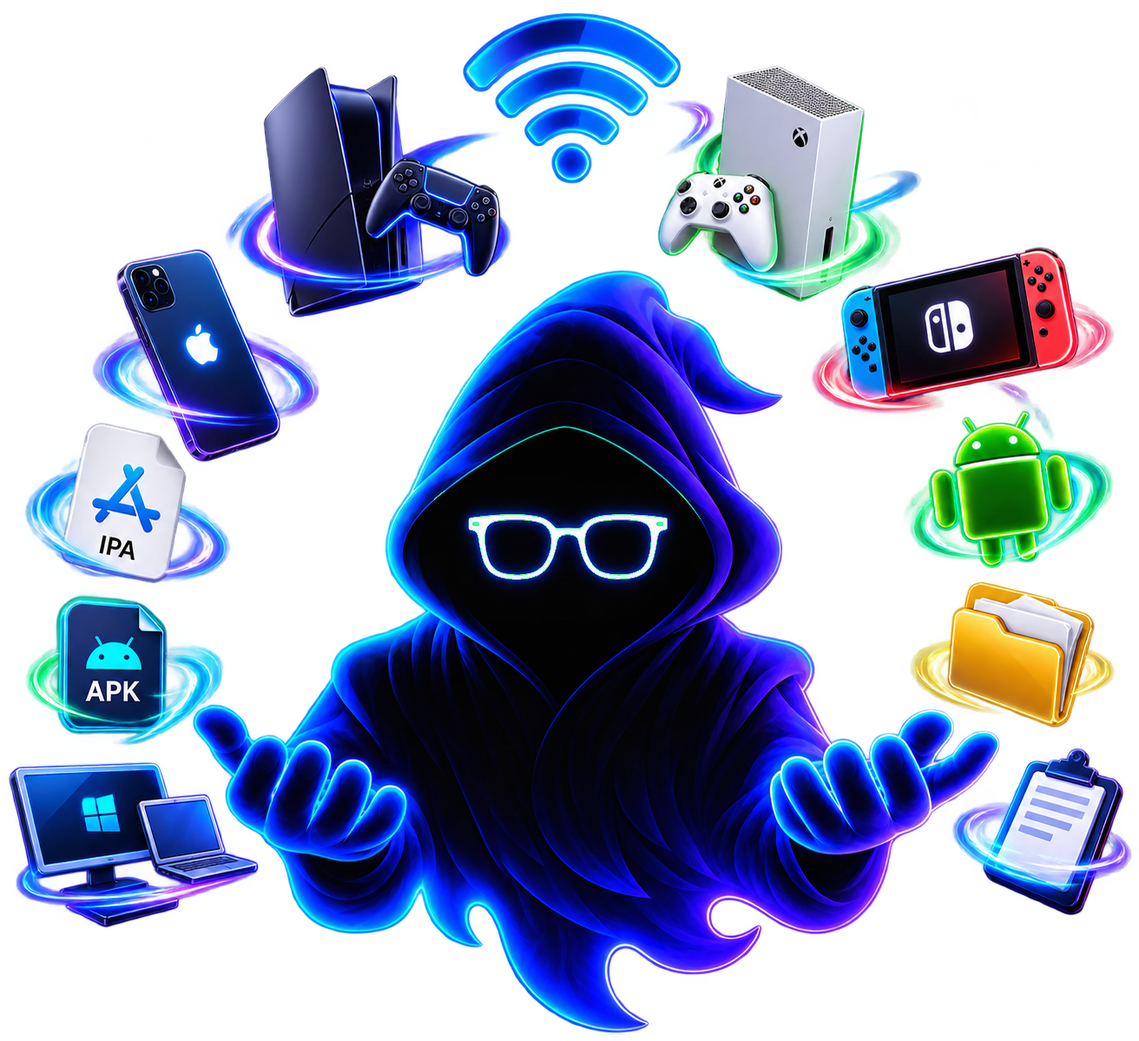
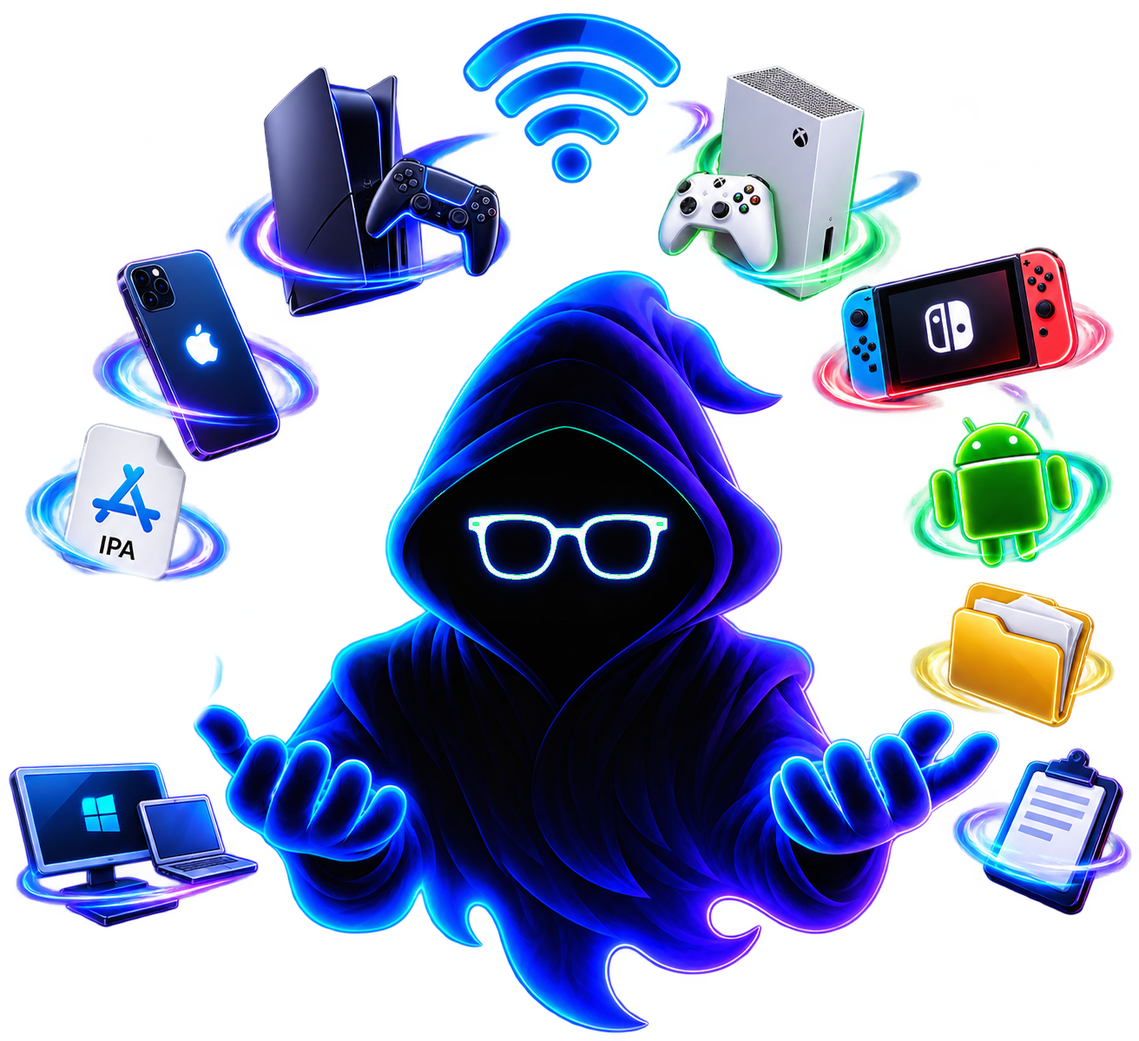
fix: restore iNSync device UI and widget behavior

Changed region(s): [[0.0, 0.5246, 0.2188, 0.7406]]

diff --git a/app/electron/renderer/index.html b/app/electron/renderer/index.html
@@ -23,15 +23,20 @@ button,select,input{font:inherit}
 #minBtn{left:28.5%;padding-bottom:6px}#closeBtn{right:28.5%;color:#ffdbe4;border-color:rgba(255,92,124,.22);background:linear-gradient(180deg,rgba(56,14,29,.72),rgba(29,7,15,.58))}
 /* standalone glass modal language */.backdrop{position:fixed;inset:0;display:none;align-items:center;justify-content:center;background:rgba(0,0,0,.72);backdrop-filter:blur(12px);z-index:100;padding:18px}.backdrop.open{display:flex}.modal{width:min(880px,92vw);height:min(560px,76vh);overflow:hidden;border-radius:28px;background:linear-gradient(180deg,rgba(18,27,49,.55),rgba(5,10,22,.5));border:1px solid rgba(90,190,255,.22);box-shadow:0 24px 80px rgba(0,0,0,.55),inset 0 0 0 1px rgba(255,255,255,.03);padding:16px;backdrop-filter:blur(24px);display:grid;grid-template-rows:auto minmax(0,1fr)}.modal.maximized{width:min(1180px,96vw);height:min(860px,92vh);padding:18px}.modal-head{display:flex;align-items:center;justify-content:space-between;gap:14px;padding-bottom:12px;border-bottom:1px solid rgba(86,185,255,.12)}.modal-title{display:flex;align-items:center;gap:14px;min-width:0}.modal-title img{width:64px;height:64px;object-fit:contain;filter:drop-shadow(0 0 15px rgba(49,183,255,.3))}.modal.maximized .modal-title img{width:76px;height:76px}.modal-title h2{margin:0;font-size:22px}.modal.maximized .modal-title h2{font-size:26px}.modal-title p{margin:3px 0 0;color:var(--muted);font-size:11px;line-height:1.45}.modal.maximized .modal-title p{font-size:13px}.modal-actions{display:flex;align-items:center;gap:8px}.modal-btn{width:40px;height:40px;border-radius:14px;border:1px solid rgba(80,180,255,.18);background:rgba(255,255,255,.04);color:white;font-size:21px;cursor:pointer;display:grid;place-items:center;backdrop-filter:blur(12px)}.modal-btn:hover{box-shadow:0 0 18px rgba(88,187,255,.18);transform:translateY(-1px)}.modal-btn.max{font-size:17px}.modal-btn.close{color:#ffdbe4;border-color:rgba(255,100,140,.22);background:rgba(80,18,36,.28)}.modal-body{display:grid;grid-template-columns:1.2fr .8fr;gap:12px;padding-top:12px;min-height:0;overflow:hidden;align-items:stretch}.modal.maximized .modal-body{grid-template-columns:1.25fr .75fr;gap:14px}.modal-body > *{min-height:0}.card{border:1px solid rgba(83,180,255,.13);background:linear-gradient(180deg,rgba(26,36,62,.42),rgba(9,14,28,.34));border-radius:20px;padding:12px;backdrop-filter:blur(18px);overflow:hidden}.card h3,.card h4{margin:0 0 8px}.card p{margin:0;color:var(--muted);font-size:11px;line-height:1.45}.modal.maximized .card p{font-size:12.5px;line-height:1.55}.rows{display:grid;gap:8px;margin-top:10px}.row{display:flex;align-items:center;justify-content:space-between;gap:10px;padding:9px 10px;border-radius:15px;background:rgba(255,255,255,.03);border:1px solid rgba(91,180,255,.09)}.row b{font-size:11.5px}.modal.maximized .row b{font-size:12.5px}.row small{display:block;color:var(--muted);margin-top:2px}.tag{padding:5px 8px;border-radius:999px;font-size:9.5px;border:1px solid rgba(80,190,255,.18);color:#d8f5ff;background:rgba(51,163,255,.08)}.tag.green{color:#baffd3;border-color:rgba(57,255,145,.25);background:rgba(57,255,145,.08)}.tag.red{color:#ffd3dc;border-color:rgba(255,62,105,.25);background:rgba(255,62,105,.08)}.grid2{display:grid;grid-template-columns:repeat(2,minmax(0,1fr));gap:9px}.action{display:flex;align-items:center;gap:10px;padding:10px;border:1px solid rgba(86,177,255,.11);background:rgba(255,255,255,.03);border-radius:16px;backdrop-filter:blur(16px)}.action img{width:40px;height:40px;object-fit:contain}.modal.maximized .action img{width:48px;height:48px}.action b{display:block;font-size:11.5px}.modal.maximized .action b{font-size:12.5px}.action span{display:block;color:var(--muted);font-size:10.5px;margin-top:2px;line-height:1.35}.modal.maximized .action span{font-size:11.5px}.control{margin-top:10px}.control label{display:block;font-size:9.5px;text-transform:uppercase;letter-spacing:.12em;color:#a5c4e1;margin-bottom:5px}.control select,.control input[type=text],.control input[type=file]{width:100%;padding:9px 10px;border-radius:12px;border:1px solid rgba(88,180,255,.15);background:rgba(8,14,28,.72);color:white}.primary,.secondary{border:0;border-radius:13px;padding:9px 12px;font-weight:700;cursor:pointer}.primary{background:linear-gradient(90deg,#23dfff,#5667ff);color:#00101b}.secondary{background:rgba(255,255,255,.06);color:#e7f7ff;border:1px solid rgba(92,180,255,.15)}.buttonbar{display:flex;gap:8px;flex-wrap:wrap;margin-top:10px}.toggle{width:58px;height:30px;border-radius:999px;background:rgba(255,62,105,.3);border:1px solid rgba(255,62,105,.3);position:relative;cursor:pointer}.toggle i{position:absolute;top:3px;left:3px;width:22px;height:22px;border-radius:50%;background:white;transition:.18s}.toggle.on{background:rgba(57,255,145,.28);border-color:rgba(57,255,145,.32)}.toggle.on i{left:31px}.progress{height:8px;border-radius:999px;background:rgba(255,255,255,.06);overflow:hidden;margin-top:7px}.progress i{display:block;height:100%;background:linear-gradient(90deg,#20e6ff,#4e67ff,#a751ff);border-radius:999px}.checklist{display:grid;gap:8px;margin-top:10px}.check{display:flex;align-items:center;gap:8px;color:#dff7ff;font-size:12px}.check input{accent-color:#33dfff}.app-list{display:grid;gap:8px;margin-top:10px}.app-row{display:grid;grid-template-columns:1fr auto;gap:10px;padding:10px;border-radius:15px;border:1px solid rgba(88,180,255,.1);background:rgba(255,255,255,.025)}.app-row b{font-size:12px}.app-row span{display:block;font-size:10px;color:var(--muted);margin-top:2px}.danger{border:1px solid rgba(255,62,105,.25);background:rgba(255,62,105,.08);color:#ffd6df;border-radius:10px;padding:6px 8px;font-size:10px;cursor:pointer}.mini-explorer{display:grid;grid-template-columns:1fr 1fr;gap:10px}.pane{min-height:180px;border-radius:16px;border:1px solid rgba(80,180,255,.12);background:rgba(0,0,0,.18);padding:10px}.pane h4{font-size:11px;color:#c8eaff;margin:0 0 8px}.file{padding:7px 8px;border-radius:10px;color:#cfe4f7;font-size:11px}.file:hover{background:rgba(45,159,255,.08)}
 
-.module-art,.mini-art{flex:0 0 auto;background-image:url("assets/insync-ui-disconnected.png");background-repeat:no-repeat;background-size:500% auto;background-color:rgba(12,20,38,.35);border:1px solid rgba(82,183,255,.13);box-shadow:inset 0 0 18px rgba(41,151,255,.07)}
-.module-art{width:58px;height:58px;border-radius:17px}.mini-art{width:42px;height:42px;border-radius:13px}
-.icon-sharing{background-position:50% 2%}.icon-playstation{background-position:25% 10%}.icon-xbox{background-position:73% 10%}.icon-switch{background-position:92% 31%}.icon-iphone{background-position:5% 32%}.icon-ipa{background-position:2% 49%}.icon-android{background-position:97% 50%}.icon-apk{background-position:2% 66%}.icon-files{background-position:97% 66%}.icon-clipboard{background-position:98% 84%}.icon-pc{background-position:1% 86%}.icon-home{background-position:50% 52%}
+.module-art,.mini-art{flex:0 0 auto;background-repeat:no-repeat;background-position:center;background-size:contain;background-color:transparent;border:0;box-shadow:none}
+.module-art{width:58px;height:58px}.mini-art{width:42px;height:42px}
+.icon-sharing{background-image:url("assets/icons/sharing.png")}.icon-playstation{background-image:url("assets/icons/playstation.png")}.icon-xbox{background-image:url("assets/icons/xbox.png")}.icon-switch{background-image:url("assets/icons/switch.png")}.icon-iphone{background-image:url("assets/icons/iphone.png")}.icon-ipa{background-image:url("assets/icons/ipa.png")}.icon-android{background-image:url("assets/icons/android.png")}.icon-files{background-image:url("assets/icons/files.png")}.icon-clipboard{background-image:url("assets/icons/clipboard.png")}.icon-pc{background-image:url("assets/icons/pc.png")}.icon-home{background-image:url("assets/icons/home.png")}
 .modal{grid-template-rows:auto minmax(0,1fr) auto}.modal-title .module-art{filter:drop-shadow(0 0 15px rgba(49,183,255,.3))}
 .jobdock{display:none;align-items:center;grid-template-columns:minmax(0,1fr) auto;gap:9px;padding:8px 10px;border-radius:14px;border:1px solid rgba(89,190,255,.12);background:rgba(8,16,30,.62)}.jobdock.show{display:grid}.jobmeta{min-width:0}.jobline{display:flex;align-items:center;justify-content:space-between;gap:8px;font-size:9px;color:#d9edff}.jobline span:first-child{white-space:nowrap;overflow:hidden;text-overflow:ellipsis}.cancel{padding:6px 9px;border-radius:9px;border:1px solid rgba(255,93,123,.18);background:rgba(255,93,123,.08);color:#ffd7df;font-size:9px;cursor:pointer}
 .tag.blue{color:#c9efff;border-color:rgba(89,204,255,.25);background:rgba(89,204,255,.08)}.empty-state{padding:14px;border-radius:14px;border:1px dashed rgba(88,180,255,.14);background:rgba(0,0,0,.12);color:#9db4d2;font-size:11px;text-align:center}.share-path{margin-top:9px;padding:8px 10px;border-radius:12px;border:1px dashed rgba(88,180,255,.16);background:rgba(0,0,0,.16);color:#cfe4f7;font-size:10px;white-space:nowrap;overflow:hidden;text-overflow:ellipsis}.muted-file{color:#7f9ab7}.queue-card{padding:11px;border-radius:15px;border:1px solid rgba(88,180,255,.1);background:rgba(255,255,255,.025)}.queue-head{display:flex;justify-content:space-between;gap:10px;align-items:center}.queue-head b{font-size:12px}.queue-head small{display:block;color:#9db4d2;margin-top:3px;font-size:10px}.queue-pct{text-align:right;margin-top:5px;font-size:9px;color:#a9c9e8}.pager{display:flex;align-items:center;justify-content:flex-end;gap:7px;margin-top:8px;font-size:9px;color:#a9c9e8}.pager button{padding:5px 8px}
 
 #toast{position:fixed;left:50%;bottom:12px;z-index:80;transform:translate(-50%,16px);opacity:0;padding:7px 10px;border-radius:999px;background:rgba(9,17,31,.9);border:1px solid rgba(82,189,255,.2);color:#e9f8ff;font-size:9px;transition:.16s;-webkit-app-region:no-drag}#toast.show{opacity:1;transform:translate(-50%,0)}
-.peer-actions{display:flex;align-items:center;gap:7px;flex:0 0 auto}.peer-btn{padding:5px 7px;font-size:9px;border-radius:9px}.sectiontabs{display:grid;grid-template-columns:repeat(4,minmax(0,1fr));gap:6px;margin-bottom:10px}.sectiontab{border:1px solid rgba(88,180,255,.12);background:rgba(255,255,255,.035);color:#bcd5ec;border-radius:10px;padding:7px 5px;font-size:9px;font-weight:700;cursor:pointer}.sectiontab.active{color:#00101b;background:linear-gradient(90deg,#23dfff,#5667ff)}.media-list{display:grid;gap:7px}.media-row{display:grid;grid-template-columns:minmax(0,1fr) auto;gap:8px;align-items:center;padding:8px 9px;border-radius:13px;border:1px solid rgba(88,180,255,.1);background:rgba(255,255,255,.025)}.media-row b{display:block;font-size:11px;white-space:nowrap;overflow:hidden;text-overflow:ellipsis}.media-row span{display:block;color:var(--muted);font-size:9px;white-space:nowrap;overflow:hidden;text-overflow:ellipsis;max-width:300px}.media-actions{display:flex;gap:5px}.mini{padding:5px 7px!important;font-size:9px!important;border-radius:9px!important}</style>
+.peer-actions{display:flex;align-items:center;gap:7px;flex:0 0 auto}.peer-btn{padding:5px 7px;font-size:9px;border-radius:9px}.sectiontabs{display:grid;grid-template-columns:repeat(4,minmax(0,1fr));gap:6px;margin-bottom:10px}.sectiontab{border:1px solid rgba(88,180,255,.12);background:rgba(255,255,255,.035);color:#bcd5ec;border-radius:10px;padding:7px 5px;font-size:9px;font-weight:700;cursor:pointer}.sectiontab.active{color:#00101b;background:linear-gradient(90deg,#23dfff,#5667ff)}.media-list{display:grid;gap:7px}.media-row{display:grid;grid-template-columns:minmax(0,1fr) auto;gap:8px;align-items:center;padding:8px 9px;border-radius:13px;border:1px solid rgba(88,180,255,.1);background:rgba(255,255,255,.025)}.media-row b{display:block;font-size:11px;white-space:nowrap;overflow:hidden;text-overflow:ellipsis}.media-row span{display:block;color:var(--muted);font-size:9px;white-space:nowrap;overflow:hidden;text-overflow:ellipsis;max-width:300px}.media-actions{display:flex;gap:5px}.mini{padding:5px 7px!important;font-size:9px!important;border-radius:9px!important}.modal-window-btn{width:50px;height:50px;border-radius:16px;border:1px solid rgba(65,126,184,.34);background:rgba(15,25,43,.94);color:#f4f7fb;display:grid;place-items:center;cursor:pointer;font-size:23px;line-height:1;backdrop-filter:blur(16px);box-shadow:none;padding:0}.modal-window-btn.close{border-color:rgba(183,53,104,.42);background:rgba(46,18,34,.94);color:#ffdbe5}.modal-window-btn:hover{filter:brightness(1.08)}.maximize-glyph{display:block;width:14px;height:14px;border:2px solid #f4f7fb;border-radius:3px}
+.viewbar{display:flex;justify-content:flex-end;gap:6px;margin:-2px 0 8px}.view-btn{height:29px;padding:0 9px;border-radius:9px;border:1px solid rgba(88,180,255,.13);background:rgba(255,255,255,.035);color:#bdd3e9;font-size:9px;font-weight:700;cursor:pointer;display:flex;align-items:center;gap:6px}.view-btn.active{color:#eefaff;background:rgba(56,150,255,.13);border-color:rgba(85,195,255,.26)}
+.view-list-icon,.view-large-icon{display:inline-block;width:14px;height:14px;position:relative}.view-list-icon:before{content:"";position:absolute;inset:2px 0;background:linear-gradient(#dcefff 0 2px,transparent 2px 5px,#dcefff 5px 7px,transparent 7px 10px,#dcefff 10px 12px)}.view-large-icon{border:1px solid rgba(220,239,255,.82);border-radius:2px}.view-large-icon:before,.view-large-icon:after{content:"";position:absolute;background:rgba(220,239,255,.82)}.view-large-icon:before{left:6px;top:0;bottom:0;width:1px}.view-large-icon:after{top:6px;left:0;right:0;height:1px}
+.app-list,.media-list{overflow-y:auto;overscroll-behavior:contain;scrollbar-width:none;-ms-overflow-style:none}.app-list::-webkit-scrollbar,.media-list::-webkit-scrollbar{display:none;width:0;height:0}.app-list{max-height:315px;padding-right:2px}.modal.maximized .app-list{max-height:555px}.media-list{max-height:330px;padding-right:2px}.modal.maximized .media-list{max-height:590px}
+.media-list.large{grid-template-columns:repeat(auto-fill,minmax(145px,1fr));align-content:start}.media-list.large .media-row{grid-template-columns:1fr;min-height:132px;align-content:space-between;text-align:left}.media-list.large .media-row:before{content:"";width:42px;height:42px;border-radius:11px;border:1px solid rgba(82,183,255,.14);background:rgba(33,97,148,.12);box-shadow:inset 0 0 18px rgba(41,151,255,.06)}.media-list.large .media-row[data-kind="photos"]:before{background:linear-gradient(135deg,rgba(30,210,255,.2),rgba(87,95,255,.16))}.media-list.large .media-row[data-kind="music"]:before{background:linear-gradient(135deg,rgba(149,86,255,.19),rgba(41,199,255,.13))}.media-list.large .media-row[data-kind="documents"]:before{background:linear-gradient(135deg,rgba(255,202,65,.14),rgba(41,199,255,.1))}.media-list.large .media-actions{width:100%;display:grid;grid-template-columns:1fr 1fr}
+</style>
 </head>
 <body>
 <div id="stage">
@@ -56,7 +61,7 @@ button,select,input{font:inherit}
   <section id="modal" class="modal">
     <header class="modal-head">
       <div id="modalTitle" class="modal-title"></div>
-      <div class="modal-actions"><button id="maxModal" aria-label="Maximize">Max</button><button id="closeModal" class="x" aria-label="Close">&times;</button></div>
+      <div class="modal-actions"><button id="maxModal" class="modal-window-btn" aria-label="Maximize" title="Maximize"><span class="maximize-glyph"></span></button><button id="closeModal" class="modal-window-btn close" aria-label="Close" title="Close">&times;</button></div>
     </header>
     <div id="modalBody" class="modal-body"></div>
     <div id="jobDock" class="jobdock">
@@ -83,7 +88,7 @@ const data={
   clipboard:{peers:[],targets:[],types:{text:true,image:true,files:false},direction:"two-way"},
   android:{devices:[],serial:"",packagePaths:[],apps:[],page:0,info:null},
   ipa:{path:"",validation:null,status:null},
-  iphone:{status:null,section:"photos",media:{photos:[],music:[]},apps:[],documents:[],bundleId:"",page:0},
+  iphone:{status:null,section:"photos",view:"list",media:{photos:[],music:[]},apps:[],documents:[],bundleId:"",page:0},
   playstation:{paths:[],status:null},
   xbox:{paths:[],status:null},
   switch:{paths:[],status:null}
@@ -148,12 +153,10 @@ const modules={
     title:"Android",sub:"ADB connection, Android package installation and installed-app management.",icon:"android",
     render(){
       const d=data.android,info=d.info?.device||{},storage=d.info?.storage||{};
-      const perPage=4,maxPage=Math.max(0,Math.ceil(d.apps.length/perPage)-1);d.page=Math.min(d.page,maxPage);
-      const pageApps=d.apps.slice(d.page*perPage,d.page*perPage+perPage);
-      const appRows=pageApps.length?pageApps.map(app=>'<div class="app-row"><div><b>'+esc(app.package)+'</b><span>'+esc(app.kind||"app")+'</span></div><button class="danger" data-cmd="'+(app.action==="disable"?"appDisable":"appUninstall")+'" data-package="'+esc(app.package)+'">'+(app.action==="disable"?"Disable":"Uninstall")+'</button></div>').join(''):'<div class="empty-state">Refresh Apps to list packages.</div>';
+      const appRows=d.apps.length?d.apps.map(app=>'<div class="app-row"><div><b>'+esc(app.package)+'</b><span>'+esc(app.kind||"app")+'</span></div><button class="danger" data-cmd="appUninstall" data-package="'+esc(app.package)+'">Delete</button></div>').join(''):'<div class="empty-state">Refresh Apps to list packages.</div>';
       return [
-        '<div class="card"><div class="control"><label>ADB device</label><select id="adbDevice"><option value="">Auto / first device</option>'+optionList(d.devices,x=>x.serial,x=>x.serial+" | "+x.state,d.serial)+'</select></div><div class="share-path">'+esc(d.packagePaths.length?d.packagePaths.map(x=>x.split(/[\\/]/).pop()).join(" | "):"No Android package selected")+'</div><div class="buttonbar"><button class="secondary" data-cmd="apkBrowse">Choose package</button><button class="primary" data-cmd="apkInstall">Install</button><button class="secondary" data-cmd="adbRefresh">Refresh ADB</button></div><h3 style="margin-top:14px">Apps on device</h3><div class="app-list">'+appRows+'</div><div class="pager"><button class="secondary" data-cmd="appsPrev">&lt;</button><span>Page '+(d.page+1)+' / '+(maxPage+1)+'</span><button class="secondary" data-cmd="appsNext">&gt;</button><button class="secondary" data-cmd="appsRefresh">Refresh Apps</button></div></div>',
-        '<div class="card"><h3>Device</h3><div class="rows">'+row("ADB",d.devices.length?(d.serial||d.devices[0].serial):"No device",d.devices.length?"Ready":"Disconnected",d.devices.length?"green":"red")+row("Model",((info.manufacturer||"")+" "+(info.model||"")).trim()||"Refresh device",info.android?"Android "+info.android:"Unknown","")+row("Storage",storage.free!==undefined?fmtBytes(storage.free)+" free":"Refresh device",storage.total?fmtBytes(storage.total):"Unknown","")+row("Package install","APK / APKS / XAPK / split APK","Ready",d.devices.length?"green":"")+row("App safety","User apps uninstall; system apps disable-user","Guarded","green")+'</div></div>'
+        '<div class="card"><div class="control"><label>ADB device</label><select id="adbDevice"><option value="">Auto / first device</option>'+optionList(d.devices,x=>x.serial,x=>x.serial+" | "+x.state,d.serial)+'</select></div><div class="share-path">'+esc(d.packagePaths.length?d.packagePaths.map(x=>x.split(/[\\/]/).pop()).join(" | "):"No Android package selected")+'</div><div class="buttonbar"><button class="secondary" data-cmd="apkBrowse">Choose package</button><button class="primary" data-cmd="apkInstall">Install</button><button class="secondary" data-cmd="adbRefresh">Refresh ADB</button></div><h3 style="margin-top:14px">Apps on device</h3><div class="app-list">'+appRows+'</div><div class="buttonbar"><button class="secondary" data-cmd="appsRefresh">Refresh Apps</button></div></div>',
+        '<div class="card"><h3>Device</h3><div class="rows">'+row("ADB",d.devices.length?(d.serial||d.devices[0].serial):"No device",d.devices.length?"Ready":"Disconnected",d.devices.length?"green":"red")+row("Model",((info.manufacturer||"")+" "+(info.model||"")).trim()||"Refresh device",info.android?"Android "+info.android:"Unknown","")+row("Storage",storage.free!==undefined?fmtBytes(storage.free)+" free":"Refresh device",storage.total?fmtBytes(storage.total):"Unknown","")+row("Package install","APK / APKS / XAPK / split APK","Ready",d.devices.length?"green":"")+row("App removal","User and system packages use Android uninstall","Direct","green")+'</div></div>'
       ];
     }
   },
@@ -173,21 +176,22 @@ const modules={
       const d=data.iphone,status=d.status||{},device=status.device||{},storage=status.storage||{},section=d.section||"photos";
       const labels={photos:"Photos",music:"Music",apps:"Apps",documents:"App Documents"};
       const tabs=["photos","music","apps","documents"].map(x=>'<button class="sectiontab '+(section===x?"active":"")+'" data-cmd="iphoneSection" data-section="'+x+'">'+labels[x]+'</button>').join("");
+      const viewbar='<div class="viewbar"><button class="view-btn '+(d.view==="list"?"active":"")+'" data-cmd="iphoneView" data-view="list"><span class="view-list-icon"></span>List</button><button class="view-btn '+(d.view==="large"?"active":"")+'" data-cmd="iphoneView" data-view="large"><span class="view-large-icon"></span>Large</button></div>';
       let body="",actions="";
       if(section==="apps"){
-        body=d.apps.length?d.apps.slice(0,6).map(app=>'<div class="media-row"><div><b>'+esc(app.name||app.bundle_id)+'</b><span>'+esc(app.bundle_id)+(app.size?" | "+fmtBytes(app.size):"")+'</span></div><div class="media-actions"><button class="secondary mini" data-cmd="iphoneDocuments" data-bundle="'+esc(app.bundle_id)+'">Documents</button><button class="danger mini" data-cmd="iphoneAppDelete" data-bundle="'+esc(app.bundle_id)+'">Delete</button></div></div>').join(""):'<div class="empty-state">Refresh Apps to list installed user apps.</div>';
+        body='<div class="media-list '+d.view+'">'+(d.apps.length?d.apps.map(app=>'<div class="media-row" data-kind="apps"><div><b>'+esc(app.name||app.bundle_id)+'</b><span>'+esc(app.bundle_id)+(app.size?" | "+fmtBytes(app.size):"")+'</span></div><div class="media-actions"><button class="secondary mini" data-cmd="iphoneDocuments" data-bundle="'+esc(app.bundle_id)+'">Documents</button><button class="danger mini" data-cmd="iphoneAppDelete" data-bundle="'+esc(app.bundle_id)+'">Delete</button></div></div>').join(""):'<div class="empty-state">Refresh Apps to list installed user apps.</div>')+'</div>';
         actions='<button class="secondary" data-cmd="iphoneAppsRefresh">Refresh Apps</button>';
       }else if(section==="documents"){
         const appOptions=d.apps.map(app=>'<option value="'+esc(app.bundle_id)+'" '+(app.bundle_id===d.bundleId?"selected":"")+'>'+esc(app.name||app.bundle_id)+'</option>').join("");
-        body='<div class="control"><label>App</label><select id="iphoneDocApp"><option value="">Choose app</option>'+appOptions+'</select></div><div class="media-list">'+(d.documents.length?d.documents.slice(0,7).map(item=>iphoneFileRow(item,true)).join(""):'<div class="empty-state">Choose an app, then refresh its Documents.</div>')+'</div>';
+        body='<div class="control"><label>App</label><select id="iphoneDocApp"><option value="">Choose app</option>'+appOptions+'</select></div><div class="media-list '+d.view+'">'+(d.documents.length?d.documents.map(item=>iphoneFileRow(item,true)).join(""):'<div class="empty-state">Choose an app, then refresh its Documents.</div>')+'</div>';
         actions='<button class="secondary" data-cmd="iphoneDocsRefresh">Refresh</button><button class="primary" data-cmd="iphoneDocSend">Send file</button>';
       }else{
         const list=d.media[section]||[];
-        body='<div class="media-list">'+(list.length?list.slice(0,7).map(item=>iphoneFileRow(item,section==="photos")).join(""):'<div class="empty-state">Refresh '+section+' to list device content.</div>')+'</div>';
+        body='<div class="media-list '+d.view+'">'+(list.length?list.map(item=>iphoneFileRow(item,section==="photos")).join(""):'<div class="empty-state">Refresh '+section+' to list device content.</div>')+'</div>';
         actions='<button class="secondary" data-cmd="iphoneMediaRefresh" data-kind="'+section+'">Refresh</button>';
       }
       return [
-        '<div class="card"><div class="sectiontabs">'+tabs+'</div>'+body+'<div class="buttonbar">'+actions+'</div></div>',
+        '<div class="card"><div class="sectiontabs">'+tabs+'</div>'+viewbar+body+'<div class="buttonbar">'+actions+'</div></div>',
         '<div class="card"><h3>Device</h3><div class="rows">'+row("Connection",device.name||device.product_type||"No iPhone",status.devices?.length?"Connected":"Disconnected",status.devices?.length?"green":"red")+row("iOS",device.product_type||"Unknown",device.ios_version||"Unknown","")+row("Storage",storage.free!==undefined?fmtBytes(storage.free)+" free":"Unknown",storage.total?fmtBytes(storage.total):"Refresh","")+row("Photos","List / send to PC / delete","Ready",engineSnapshot?.capabilities?.ios_bridge?"green":"")+row("Music","List / send to PC; library-safe delete gated","Export","")+row("Apps","List / delete user apps","Ready",engineSnapshot?.capabilities?.ios_bridge?"green":"")+row("App Documents","List / send / save / delete","Ready",engineSnapshot?.capabilities?.ios_bridge?"green":"")+'</div><div class="buttonbar"><button class="secondary" data-cmd="iosStatus">Refresh device</button></div></div>'
       ];
     }
@@ -210,7 +214,7 @@ function selectedPaths(paths,empty="Nothing selected"){if(!paths?.length)return 
 function iphoneFileRow(item,allowDelete){
   const name=item.name||String(item.path||"").split("/").pop()||item.path||"item";
   const meta=(item.size!==undefined?fmtBytes(item.size):"")+(item.path?" | "+item.path:"");
-  return '<div class="media-row"><div><b>'+esc(name)+'</b><span>'+esc(meta)+'</span></div><div class="media-actions"><button class="secondary mini" data-cmd="iphoneFileSave" data-kind="'+esc(item.kind||data.iphone.section)+'" data-path="'+esc(item.path||"")+'" data-bundle="'+esc(item.bundle_id||data.iphone.bundleId||"")+'">Send to PC</button>'+(allowDelete?'<button class="danger mini" data-cmd="iphoneFileDelete" data-kind="'+esc(item.kind||data.iphone.section)+'" data-path="'+esc(item.path||"")+'" data-bundle="'+esc(item.bundle_id||data.iphone.bundleId||"")+'">Delete</button>':'')+'</div></div>';
+  return '<div class="media-row" data-kind="'+esc(item.kind||data.iphone.section)+'"><div><b>'+esc(name)+'</b><span>'+esc(meta)+'</span></div><div class="media-actions"><button class="secondary mini" data-cmd="iphoneFileSave" data-kind="'+esc(item.kind||data.iphone.section)+'" data-path="'+esc(item.path||"")+'" data-bundle="'+esc(item.bundle_id||data.iphone.bundleId||"")+'">Send to PC</button>'+(allowDelete?'<button class="danger mini" data-cmd="iphoneFileDelete" data-kind="'+esc(item.kind||data.iphone.section)+'" data-path="'+esc(item.path||"")+'" data-bundle="'+esc(item.bundle_id||data.iphone.bundleId||"")+'">Delete</button>':'')+'</div></div>';
 }
 function optionList(items,valueFn,labelFn,selected){return items.map(x=>{const v=valueFn(x),l=labelFn(x);return '<option value="'+esc(v)+'" '+(v===selected?'selected':'')+'>'+esc(l)+'</option>'}).join('')}
 function peerTag(peer){const role=(peer.role||"idle").toLowerCase();if(role==="provider")return tag("Provider","green");if(role==="receiver")return tag("Receiver","blue");return tag(peer.approved===false?"Unapproved":"Idle","red")}
@@ -339,14 +343,13 @@ async function command(cmd,b){
   if(cmd==="apkBrowse"){const r=await window.ttg.dialog.openFiles({title:"Choose Android package",multi:true,filters:[{name:"Android packages",extensions:["apk","apks","xapk"]}]});if(!r.canceled){data.android.packagePaths=r.paths;renderModule()}return}
   if(cmd==="apkInstall"){submit("adb.install",{paths:data.android.packagePaths,serial:data.android.serial},"android");return}
   if(cmd==="appsRefresh"){submit("adb.apps",{serial:data.android.serial},"android");return}
-  if(cmd==="appsPrev"){data.android.page=Math.max(0,data.android.page-1);renderModule();return}
-  if(cmd==="appsNext"){data.android.page++;renderModule();return}
-  if(cmd==="appUninstall"||cmd==="appDisable"){const pkg=b.dataset.package||"";const action=cmd==="appDisable"?"disable this system app for user 0":"uninstall this user app";if(!pkg||!confirm("Confirm: "+action+"?\\n\\n"+pkg))return;submit(cmd==="appDisable"?"adb.disable":"adb.uninstall",{package:pkg,serial:data.android.serial},"android");return}
+  if(cmd==="appUninstall"){const pkg=b.dataset.package||"";if(!pkg||!confirm("Delete this package from the active Android user?\n\n"+pkg))return;submit("adb.uninstall",{package:pkg,serial:data.android.serial},"android");return}
   if(cmd==="ipaBrowse"){const r=await window.ttg.dialog.openFiles({title:"Choose IPA",multi:false,filters:[{name:"iPhone IPA",extensions:["ipa"]}]});if(!r.canceled){data.ipa.path=r.paths[0]||"";data.ipa.validation=null;renderModule()}return}
   if(cmd==="ipaValidateInstall"){if(!data.ipa.path){toast("Choose an IPA first");return}submit("ios.validate",{path:data.ipa.path},"validate-install");return}
   if(cmd==="ipaStatus"){submit("ios.status",{},"ipa",true);return}
   if(cmd==="iosStatus"){submit("ios.status",{},"iphone",true);return}
   if(cmd==="iphoneSection"){data.iphone.section=b.dataset.section||"photos";renderModule();if(data.iphone.section==="apps")submit("ios.apps",{},"iphone",true);else if(data.iphone.section==="documents"){if(data.iphone.bundleId)submit("ios.documents.list",{bundle_id:data.iphone.bundleId},"iphone",true)}else submit("ios.media.list",{kind:data.iphone.section},"iphone",true);return}
+  if(cmd==="iphoneView"){data.iphone.view=b.dataset.view==="large"?"large":"list";renderModule();return}
   if(cmd==="iphoneAppsRefresh"){submit("ios.apps",{},"iphone",true);return}
   if(cmd==="iphoneAppDelete"){const bundle=b.dataset.bundle||"";if(bundle&&confirm("Delete this app from the iPhone?\n\n"+bundle))submit("ios.app.uninstall",{bundle_id:bundle},"iphone");return}
   if(cmd==="iphoneDocuments"){data.iphone.bundleId=b.dataset.bundle||"";data.iphone.section="documents";renderModule();if(data.iphone.bundleId)submit("ios.documents.list",{bundle_id:data.iphone.bundleId},"iphone",true);return}
@@ -364,7 +367,7 @@ $$(".hotspot").forEach(b=>b.onclick=()=>openModule(b.dataset.module));
 $("#minBtn").onclick=()=>window.ttg.windowControl("minimize");
 $("#closeBtn").onclick=()=>window.ttg.windowControl("close");
 $("#closeModal").onclick=()=>$("#backdrop").classList.remove("open");
-$("#maxModal").onclick=()=>{const m=$("#modal");m.classList.toggle("maximized");$("#maxModal").textContent=m.classList.contains("maximized")?"Restore":"Max"};
+$("#maxModal").onclick=()=>{const m=$("#modal");m.classList.toggle("maximized");const on=m.classList.contains("maximized");$("#maxModal").setAttribute("aria-label",on?"Restore":"Maximize");$("#maxModal").title=on?"Restore":"Maximize"};
 $("#cancelJob").onclick=()=>{if(activeJob)window.ttg.backend.cancel(activeJob)};
 $("#backdrop").onclick=e=>{if(e.target.id==="backdrop")$("#backdrop").classList.remove("open")};
 document.addEventListener("keydown",e=>{if(e.key==="Escape")$("#backdrop").classList.remove("open")});

diff --git a/app/electron/renderer/widget.html b/app/electron/renderer/widget.html
@@ -7,10 +7,10 @@
 *{box-sizing:border-box}
 html,body{margin:0;width:100%;height:100%;overflow:hidden;background:transparent;font-family:Segoe UI,Inter,Arial,sans-serif;color:var(--text)}
 button,select,input{-webkit-app-region:no-drag;font:inherit}
-#shell{width:100%;height:100%;padding:8px 0 8px 8px;-webkit-app-region:drag}
-#card{height:100%;border-radius:22px 0 0 22px;border:1px solid rgba(91,189,255,.2);border-right:0;background:linear-gradient(180deg,rgba(17,27,49,.92),rgba(6,12,25,.91));backdrop-filter:blur(22px);box-shadow:0 18px 45px rgba(0,0,0,.45);padding:10px;display:grid;grid-template-rows:auto auto minmax(0,1fr) auto auto;gap:7px;opacity:.18;transform:translateX(181px);transition:opacity .18s ease,transform .18s ease}
-#shell:hover #card,#card:focus-within{opacity:1;transform:translateX(0)}
-.top{display:flex;align-items:center;justify-content:space-between;gap:10px}.top b{font-size:12px}.dot{width:9px;height:9px;border-radius:50%;box-shadow:0 0 14px currentColor}.dot.disconnected{color:var(--red);background:var(--red)}.dot.receiving{color:var(--blue);background:var(--blue)}.dot.sending{color:var(--green);background:var(--green)}
+#shell{width:100%;height:100%;padding:8px 0 8px 8px;-webkit-app-region:no-drag;pointer-events:auto}
+#card{-webkit-app-region:no-drag;height:100%;border-radius:22px 0 0 22px;border:1px solid rgba(91,189,255,.2);border-right:0;background:linear-gradient(180deg,rgba(17,27,49,.92),rgba(6,12,25,.91));backdrop-filter:blur(22px);box-shadow:0 18px 45px rgba(0,0,0,.45);padding:10px;display:grid;grid-template-rows:auto auto minmax(0,1fr) auto auto;gap:7px;opacity:.18;transform:translateX(181px);transition:opacity .18s ease,transform .18s ease}
+#shell:hover #card,#card.expanded,#card:focus-within{opacity:1;transform:translateX(0)}
+.top{-webkit-app-region:drag;cursor:move;display:flex;align-items:center;justify-content:space-between;gap:10px}.top b{font-size:12px}.dot{width:9px;height:9px;border-radius:50%;box-shadow:0 0 14px currentColor}.dot.disconnected{color:var(--red);background:var(--red)}.dot.receiving{color:var(--blue);background:var(--blue)}.dot.sending{color:var(--green);background:var(--green)}
 select{width:100%;padding:7px;border-radius:11px;border:1px solid rgba(91,184,255,.14);background:#0b1426;color:#fff;outline:none;font-size:10px}
 .pane{display:grid;gap:6px;align-content:start;min-height:0}.pane[hidden]{display:none}
 .status{padding:7px;border-radius:11px;border:1px solid rgba(88,181,255,.09);background:rgba(255,255,255,.025);font-size:9px;color:#d7ebff}
@@ -41,6 +41,24 @@ const $=s=>document.querySelector(s),$$=s=>[...document.querySelectorAll(s)];
 let state={mode:"connection",connection:"disconnected",clipboardEnabled:true};
 let activeJob="";
 let peers=[];
+let collapseTimer=0;
+const shell=$("#shell"),card=$("#card");
+function expandWidget(){
+  clearTimeout(collapseTimer);
+  card.classList.add("expanded");
+}
+function scheduleCollapse(){
+  clearTimeout(collapseTimer);
+  collapseTimer=setTimeout(()=>{
+    const focused=card.contains(document.activeElement);
+    if(!card.matches(":hover")&&!focused)card.classList.remove("expanded");
+  },1200);
+}
+shell.addEventListener("pointerenter",expandWidget);
+shell.addEventListener("pointerleave",scheduleCollapse);
+card.addEventListener("pointerdown",expandWidget);
+card.addEventListener("focusin",expandWidget);
+card.addEventListener("focusout",scheduleCollapse);
 function apply(s){
   state={...state,...s};
   $("#mode").value=state.mode;
@@ -62,12 +80,12 @@ async function refreshPeers(){
   const r=await window.ttg.backend.submit("peer.list",{});
   if(r?.job)showJob(r.job);
 }
-$("#mode").onchange=e=>window.ttg.stateSet({mode:e.target.value});
-$("#refreshSharing").onclick=()=>submit("sharing.status",{});
-$("#toggleSharing").onclick=()=>submit("sharing.toggle",{enable:state.connection!=="sending",public:"Wi-Fi",private:"Ethernet"});
-$("#refreshPeers").onclick=refreshPeers;
-$("#clipText").onclick=async()=>{const c=await window.ttg.clipboard.readText();submit("clipboard.text",{text:c.text,targets:peers.map(x=>x.id).filter(Boolean)})};
-$("#clipImage").onclick=async()=>{const c=await window.ttg.clipboard.readImage();submit("clipboard.image",{data_url:c.dataUrl,targets:peers.map(x=>x.id).filter(Boolean)})};
+$("#mode").onchange=e=>{expandWidget();window.ttg.stateSet({mode:e.target.value})};
+$("#refreshSharing").onclick=()=>{expandWidget();submit("sharing.status",{})};
+$("#toggleSharing").onclick=()=>{expandWidget();submit("sharing.toggle",{enable:state.connection!=="sending",public:"Wi-Fi",private:"Ethernet"})};
+$("#refreshPeers").onclick=()=>{expandWidget();refreshPeers()};
+$("#clipText").onclick=async()=>{expandWidget();const c=await window.ttg.clipboard.readText();submit("clipboard.text",{text:c.text,targets:peers.map(x=>x.id).filter(Boolean)})};
+$("#clipImage").onclick=async()=>{expandWidget();const c=await window.ttg.clipboard.readImage();submit("clipboard.image",{data_url:c.dataUrl,targets:peers.map(x=>x.id).filter(Boolean)})};
 $("#openMain").onclick=()=>window.ttg.showMain();
 window.ttg.onBackendEvent(evt=>{
   const job=evt?.job;

diff --git a/backend/insync_backend.py b/backend/insync_backend.py
@@ -570,7 +570,7 @@ def adb_apps_job(job: Job, engine: JobEngine) -> dict[str, Any]:
     system = _package_lines(out_sys) if rc_sys == 0 else []
     apps = (
         [{"package": package, "kind": "user", "action": "uninstall"} for package in user]
-        + [{"package": package, "kind": "system", "action": "disable"} for package in system]
+        + [{"package": package, "kind": "system", "action": "uninstall"} for package in system]
     )
     return {
         "ok": rc_user == 0 or rc_sys == 0,
@@ -632,9 +632,30 @@ def adb_uninstall_job(job: Job, engine: JobEngine) -> dict[str, Any]:
     if not package:
         return unavailable("Choose an app before uninstalling")
     serial = str(job.params.get("serial") or "")
-    engine.progress(job, 20, f"Uninstalling {package}")
+    engine.progress(job, 15, f"Uninstalling {package}")
     rc, out, err = run_process(job, _adb_prefix(serial) + ["uninstall", package], timeout=90)
-    return {"ok": rc == 0, "available": True, "message": out or err or ("Uninstalled" if rc == 0 else "Uninstall failed"), "package": package}
+    if rc == 0:
+        return {
+            "ok": True,
+            "available": True,
+            "message": out or "Uninstalled",
+            "package": package,
+            "method": "adb-uninstall",
+        }
+    engine.progress(job, 58, f"Removing {package} for Android user 0")
+    rc2, out2, err2 = run_process(
+        job,
+        _adb_prefix(serial) + ["shell", "pm", "uninstall", "--user", "0", package],
+        timeout=90,
+    )
+    return {
+        "ok": rc2 == 0,
+        "available": True,
+        "message": out2 or err2 or err or out or ("Removed for user 0" if rc2 == 0 else "Uninstall failed"),
+        "package": package,
+        "method": "pm-uninstall-user-0" if rc2 == 0 else "failed",
+        "direct_error": "" if rc == 0 else (err or out),
+    }
 
 
 def adb_disable_job(job: Job, engine: JobEngine) -> dict[str, Any]:
@@ -805,8 +826,15 @@ def _save_peer_config(value: dict[str, Any]) -> None:
 
 class PeerDiscovery:
     def __init__(self) -> None:
-        self._thread = threading.Thread(target=self._serve, name="insync-peer-discovery", daemon=True)
-        self._thread.start()
+        self._thread: threading.Thread | None = None
+        self._start_lock = threading.Lock()
+
+    def start(self) -> None:
+        with self._start_lock:
+            if self._thread and self._thread.is_alive():
+                return
+            self._thread = threading.Thread(target=self._serve, name="insync-peer-discovery", daemon=True)
+            self._thread.start()
 
     @staticmethod
     def _record(ip: str = "") -> dict[str, Any]:
@@ -850,6 +878,7 @@ class PeerDiscovery:
             sock.close()
 
     def discover(self, timeout: float = 0.8) -> list[dict[str, Any]]:
+        self.start()
         config = _load_peer_config()
         approved = set(str(x) for x in config.get("approved_ids", []))
         peers: dict[str, dict[str, Any]] = {}
@@ -924,8 +953,15 @@ def _peer_recv_json(sock: socket.socket) -> dict[str, Any]:
 
 class PeerTransport:
     def __init__(self) -> None:
-        self._thread = threading.Thread(target=self._serve, name="insync-peer-transport", daemon=True)
-        self._thread.start()
+        self._thread: threading.Thread | None = None
+        self._start_lock = threading.Lock()
+
+    def start(self) -> None:
+        with self._start_lock:
+            if self._thread and self._thread.is_alive():
+                return
+            self._thread = threading.Thread(target=self._serve, name="insync-peer-transport", daemon=True)
+            self._thread.start()
 
     def _serve(self) -> None:
         server = socket.socket(socket.AF_INET, socket.SOCK_STREAM)
@@ -1031,7 +1067,13 @@ class PeerTransport:
 PEER_TRANSPORT = PeerTransport()
 
 
+def ensure_peer_network() -> None:
+    PEER_DISCOVERY.start()
+    PEER_TRANSPORT.start()
+
+
 def _approved_targets(target_ids: list[str]) -> tuple[list[dict[str, Any]], list[str]]:
+    ensure_peer_network()
     wanted = {str(x) for x in target_ids if x}
     peers = PEER_DISCOVERY.discover(timeout=1.0)
     selected = [peer for peer in peers if not peer.get("self") and peer.get("id") in wanted]
@@ -1041,13 +1083,16 @@ def _approved_targets(target_ids: list[str]) -> tuple[list[dict[str, Any]], list
 
 
 def peers_list_job(job: Job, engine: JobEngine) -> dict[str, Any]:
-    engine.progress(job, 15, "Discovering iNSync peers")
+    engine.progress(job, 15, "Starting peer discovery")
+    ensure_peer_network()
+    engine.progress(job, 30, "Discovering iNSync peers")
     peers = PEER_DISCOVERY.discover()
     remote = [peer for peer in peers if not peer.get("self")]
     return ok(f"{len(remote)} remote iNSync peer(s) found", peers=peers)
 
 
 def peer_configure_job(job: Job, engine: JobEngine) -> dict[str, Any]:
+    ensure_peer_network()
     role = str(job.params.get("role") or "idle").lower()
     scope = str(job.params.get("scope") or "internet-only").lower()
     if role not in {"provider", "receiver", "idle"}:
@@ -1063,6 +1108,7 @@ def peer_configure_job(job: Job, engine: JobEngine) -> dict[str, Any]:
 
 
 def peer_approve_job(job: Job, engine: JobEngine) -> dict[str, Any]:
+    ensure_peer_network()
     peer_id = str(job.params.get("peer_id") or "")
     approved = bool(job.params.get("approved", True))
     if not peer_id:

diff --git a/tests/test_shell_boundary.py b/tests/test_shell_boundary.py
@@ -98,5 +98,65 @@ class ShellBoundaryTests(unittest.TestCase):
         self.assertIn("x.approved!==false", widget)
 
 
+    def test_backend_start_is_silent_until_peer_features_are_used(self):
+        backend = (ROOT / "backend" / "insync_backend.py").read_text(encoding="utf-8")
+        sidecar = (ROOT / "app" / "electron" / "sidecar.cjs").read_text(encoding="utf-8")
+        self.assertIn("windowsHide:true", sidecar)
+        self.assertIn("creationflags=(subprocess.CREATE_NO_WINDOW if sys.platform == \"win32\" else 0)", backend)
+        self.assertIn("self._thread: threading.Thread | None = None", backend)
+        self.assertIn("def ensure_peer_network() -> None:", backend)
+        discovery_ctor = backend.split("class PeerDiscovery:", 1)[1].split("    def start(self)", 1)[0]
+        transport_ctor = backend.split("class PeerTransport:", 1)[1].split("    def start(self)", 1)[0]
+        self.assertNotIn("self._thread.start()", discovery_ctor)
+        self.assertNotIn("self._thread.start()", transport_ctor)
+
+    def test_android_has_no_guarded_system_app_path(self):
+        renderer = (ROOT / "app" / "electron" / "renderer" / "index.html").read_text(encoding="utf-8")
+        backend = (ROOT / "backend" / "insync_backend.py").read_text(encoding="utf-8")
+        self.assertNotIn('"Guarded"', renderer)
+        self.assertNotIn('data-cmd="appDisable"', renderer)
+        self.assertIn('["shell", "pm", "uninstall", "--user", "0", package]', backend)
+        self.assertIn('"method": "pm-uninstall-user-0"', backend)
+        self.assertIn('{"package": package, "kind": "system", "action": "uninstall"}', backend)
+
+    def test_device_lists_scroll_without_visible_scrollbar_and_support_views(self):
+        renderer = (ROOT / "app" / "electron" / "renderer" / "index.html").read_text(encoding="utf-8")
+        for token in (
+            'data-cmd="iphoneView"',
+            'data-view="list"',
+            'data-view="large"',
+            'scrollbar-width:none',
+            '.app-list::-webkit-scrollbar',
+            '.media-list::-webkit-scrollbar',
+            '.media-list.large',
+        ):
+            self.assertIn(token, renderer)
+        self.assertNotIn("slice(0,6).map(app=>", renderer)
+        self.assertNotIn("slice(0,7).map(item=>iphoneFileRow", renderer)
+
+    def test_popup_controls_and_trimmed_icons_use_dedicated_assets(self):
+        renderer = (ROOT / "app" / "electron" / "renderer" / "index.html").read_text(encoding="utf-8")
+        self.assertIn('class="maximize-glyph"', renderer)
+        self.assertIn('class="modal-window-btn close"', renderer)
+        self.assertNotIn('>Max</button>', renderer)
+        self.assertNotIn(".icon-apk", renderer)
+        icon_root = ROOT / "app" / "electron" / "renderer" / "assets" / "icons"
+        for name in ("sharing","playstation","xbox","switch","iphone","ipa","android","files","clipboard","pc","home"):
+            self.assertTrue((icon_root / f"{name}.png").is_file(), name)
+
+    def test_widget_stays_expanded_during_interaction(self):
+        widget = (ROOT / "app" / "electron" / "renderer" / "widget.html").read_text(encoding="utf-8")
+        for token in (
+            '#shell:hover #card,#card.expanded,#card:focus-within',
+            '#card{-webkit-app-region:no-drag',
+            '.top{-webkit-app-region:drag',
+            'function expandWidget()',
+            'card.addEventListener("pointerdown",expandWidget)',
+            'card.addEventListener("focusin",expandWidget)',
+            'collapseTimer=setTimeout',
+        ):
+            self.assertIn(token, widget)
+
+
 if __name__ == "__main__":
     unittest.main()
